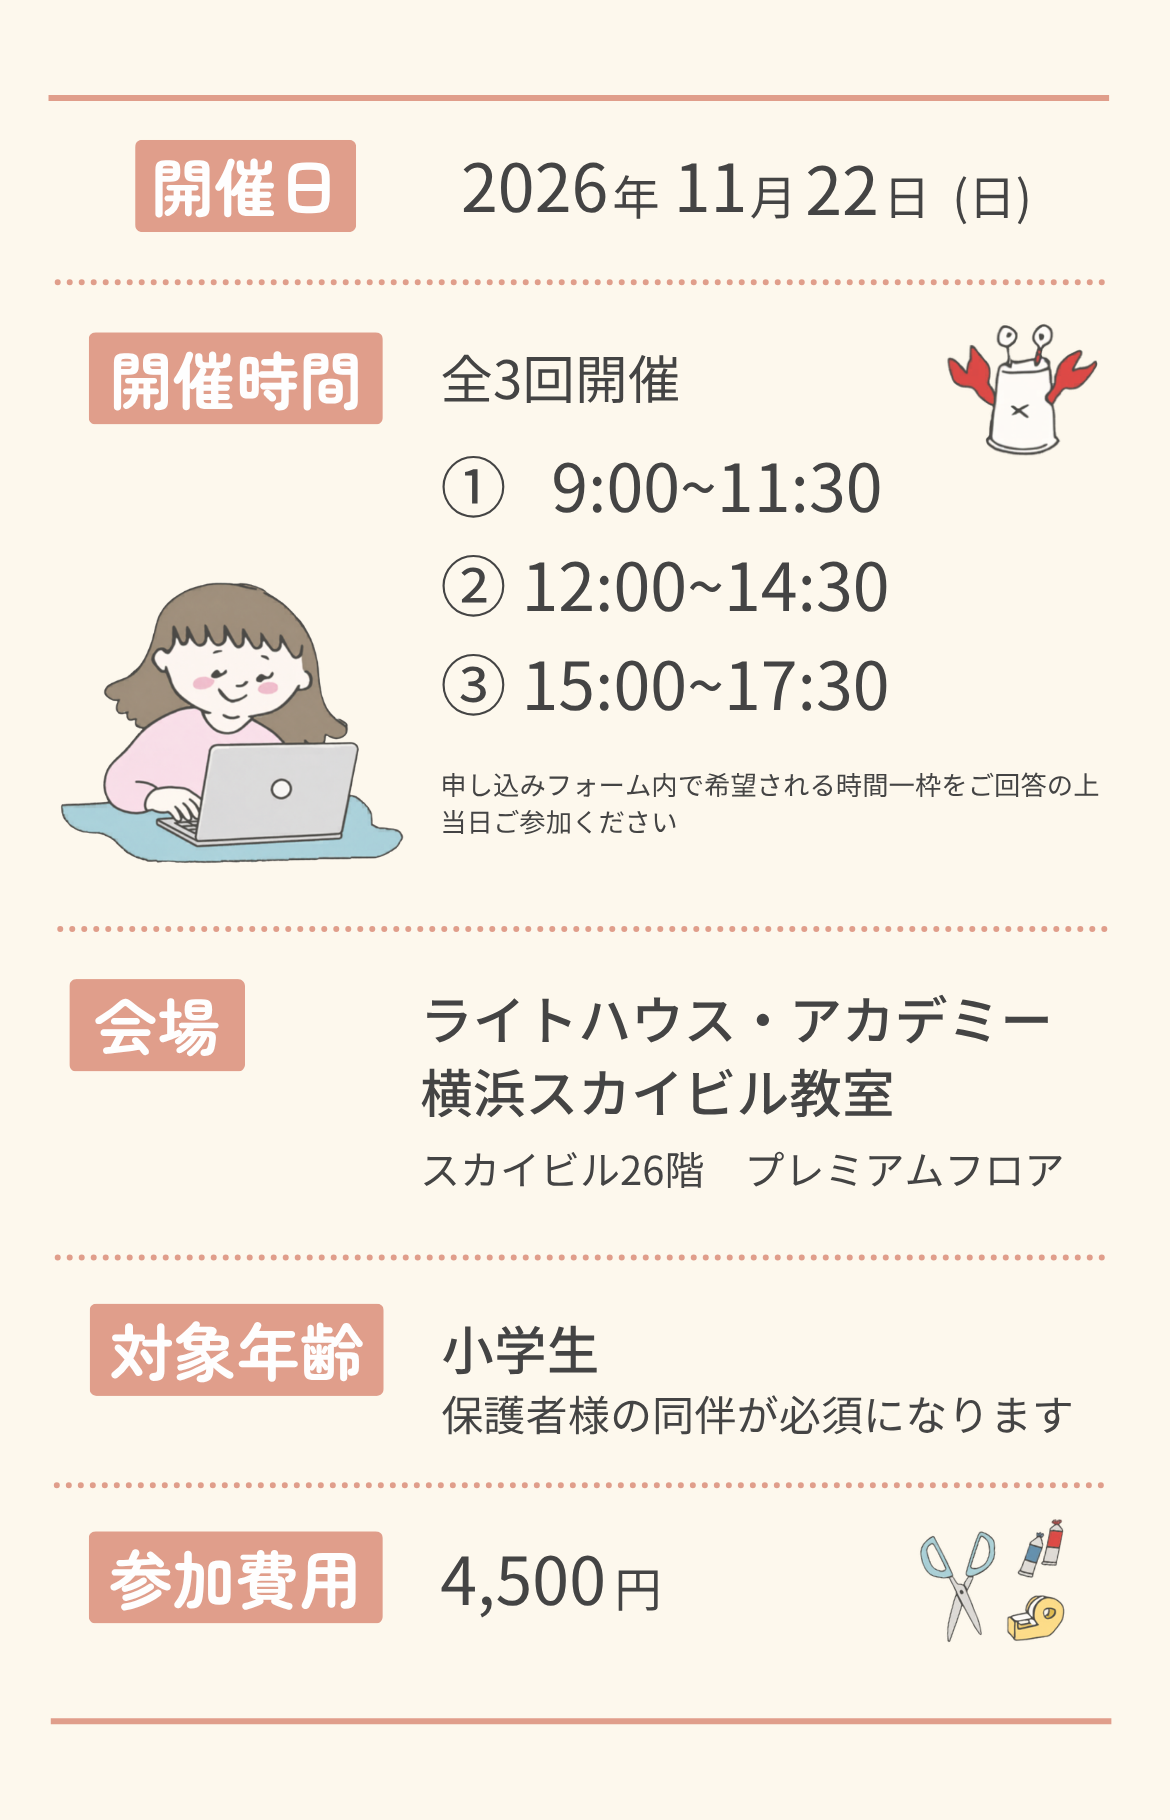
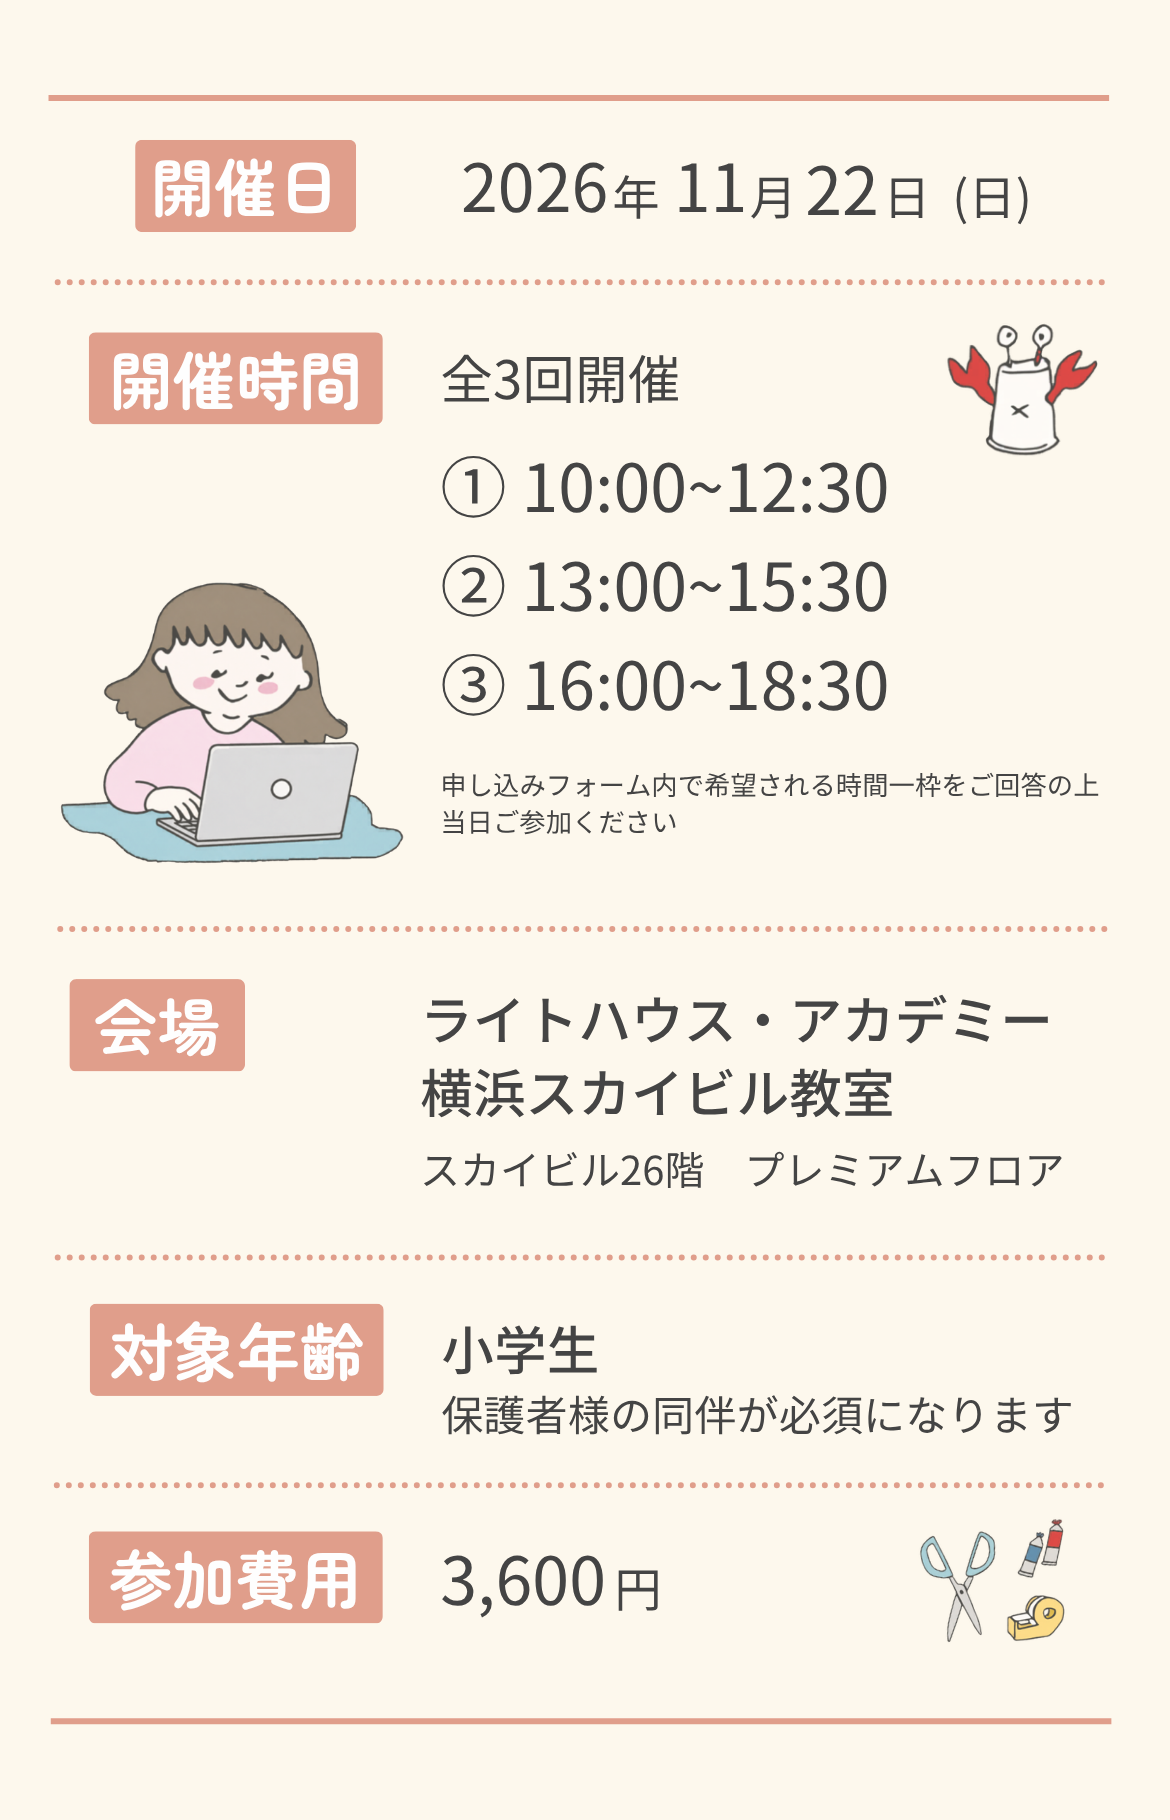
Align November workshop landing page with current booking

diff --git a/products/workshop/20261122A/index.html b/products/workshop/20261122A/index.html
@@ -22,14 +22,14 @@
   <link rel="stylesheet" href="styles.css" />
   <script defer src="script.js"></script>
 </head>
-<body data-form-url="https://www.street-academy.com/myclass/223088?conversion_name=direct_message&amp;tracking_code=703ed7c4bbd7df3f80b5a57226ae9ead">
+<body>
   <a class="skip-link" href="#main">本文へ移動</a>
   <div class="page-shell">
     <header class="site-header" aria-label="サイトヘッダー">
       <a class="brand" href="../../../" aria-label="ThouLab トップページへ">
         <img src="../../../assets/potera/logo0611.png" width="132" height="36" alt="ぽてら学舎" />
       </a>
-      <a class="header-cta" href="https://www.street-academy.com/myclass/223088?conversion_name=direct_message&amp;tracking_code=703ed7c4bbd7df3f80b5a57226ae9ead" data-apply-link data-cta-place="header">ストアカで申し込む</a>
+      <a class="header-cta" href="https://atclerk-staging-booking.vercel.app/w/w-229cc5f3a44d4f2aa077d2c0e682c137" data-apply-link data-cta-place="header">参加を申し込む</a>
     </header>
 
     <main id="main">
@@ -52,9 +52,11 @@
         </div>
         <div class="hero-details">
           <p class="event-date"><time datetime="2026-11-22">2026年11月22日（日）</time></p>
-          <p>9:00〜 / 12:00〜 / 15:00〜 の3枠<br>横浜スカイビル26階・プレミアムフロア</p>
+          <p>10:00〜12:30／13:00〜15:30／16:00〜18:30</p>
+          <p>横浜スカイビル26階・プレミアムフロア</p>
+          <p>お子さま1人 <strong>3,600円（税込）</strong></p>
         </div>
-        <a class="btn btn-primary wide" href="https://www.street-academy.com/myclass/223088?conversion_name=direct_message&amp;tracking_code=703ed7c4bbd7df3f80b5a57226ae9ead" data-apply-link data-cta-place="hero">時間を選んで申し込む <span aria-hidden="true">→</span></a>
+        <a class="btn btn-primary wide" href="https://atclerk-staging-booking.vercel.app/w/w-229cc5f3a44d4f2aa077d2c0e682c137" data-apply-link data-cta-place="hero">時間を選んで申し込む <span aria-hidden="true">→</span></a>
         <a class="text-link" href="#overview">参加費・開催概要を見る <span aria-hidden="true">↓</span></a>
       </section>
 
@@ -76,9 +78,12 @@
           <p class="section-kicker">Program</p>
           <h2 id="program-title">当日の流れ</h2>
         </div>
-        <figure class="portrait-wrap">
-          <img src="../../../assets/potera/1122A/S__7979041.jpg" width="858" height="1907" alt="当日の流れ（9時開始の回の例）。9:00 Q-BUでフィギュアをモデリング、10:00 ストラップを組み立てて色塗り・3Dプリント見学、11:00 印刷したフィギュアを取り付けて完成、11:30 終了。作品は持ち帰れます。全グループ同じ流れです。" loading="lazy" />
-        </figure>
+        <ol class="flow-list">
+          <li><span class="step-number" aria-hidden="true">1</span><div><h3>フィギュアをデザイン</h3><p>スマホアプリ「Q-BU」でブロックを組み合わせ、自分だけのフィギュアを作ります。</p></div></li>
+          <li><span class="step-number" aria-hidden="true">2</span><div><h3>ストラップの組み立て・色塗り</h3><p>好きな色でストラップをアレンジしながら、3Dプリンターがフィギュアを印刷する様子を見学します。</p></div></li>
+          <li><span class="step-number" aria-hidden="true">3</span><div><h3>フィギュアを取り付けて完成</h3><p>印刷したフィギュアを取り付けて、できあがった作品を持ち帰ります。</p></div></li>
+        </ol>
+        <p class="note">どの回も同じ内容で、所要時間は約2時間半です。</p>
       </section>
 
       <section class="section" aria-labelledby="teacher-title">
@@ -98,7 +103,7 @@
           <h2 id="overview-title">開催概要</h2>
         </div>
         <figure class="portrait-wrap">
-          <img src="../../../assets/potera/1122A/4.png" width="1170" height="1820" alt="開催概要。2026年11月22日（日）、9:00〜11:30・12:00〜14:30・15:00〜17:30の全3回から1枠を選択。会場はライトハウス・アカデミー横浜スカイビル教室、スカイビル26階プレミアムフロア。対象は小学生、保護者同伴必須。参加費4,500円。" loading="lazy" />
+          <img src="../../../assets/potera/1122A/4.png?v=7df88d75" width="1170" height="1820" alt="開催概要。2026年11月22日（日）、10:00〜12:30・13:00〜15:30・16:00〜18:30の全3回から1枠を選択。会場はライトハウス・アカデミー横浜スカイビル教室、スカイビル26階プレミアムフロア。対象は小学生、保護者同伴必須。参加費はお子さま1人3,600円（税込）。" loading="lazy" />
         </figure>
       </section>
 
@@ -119,10 +124,10 @@
         <div class="section-head">
           <p class="section-kicker">Entry</p>
           <h2 id="entry-title">参加方法</h2>
-          <p>事前予約制です。ストアカの講座ページから、ご希望の時間枠を選んでお申し込みください。</p>
+          <p>事前予約制です。予約ページでご希望の回を選び、お申し込みとお支払いをお済ませください。申込締切は各回の開始24時間前です。</p>
         </div>
-        <a class="btn btn-primary wide" href="https://www.street-academy.com/myclass/223088?conversion_name=direct_message&amp;tracking_code=703ed7c4bbd7df3f80b5a57226ae9ead" data-apply-link data-cta-place="entry">ストアカで詳細・空席を確認 <span aria-hidden="true">→</span></a>
-        <p class="note">空席状況・お支払い・キャンセル条件は、ストアカの予約画面をご確認ください。</p>
+        <a class="btn btn-primary wide" href="https://atclerk-staging-booking.vercel.app/w/w-229cc5f3a44d4f2aa077d2c0e682c137" data-apply-link data-cta-place="entry">空席を確認して申し込む <span aria-hidden="true">→</span></a>
+        <p class="note">各回の空席状況と参加条件は、予約ページでご確認いただけます。</p>
       </section>
 
       <section class="section" aria-labelledby="reviews-title">
@@ -147,9 +152,10 @@
         </div>
         <div class="faq-list">
           <details><summary>3D工作が初めてでも大丈夫？</summary><p>大丈夫です。ブロックを置く・削るといったQ-BUの基本操作から練習します。制作中もスタッフがサポートします。</p></details>
-          <details><summary>保護者の同伴は必要ですか？</summary><p>はい。小学生を対象にしたワークショップのため、保護者の同伴が必要です。お子さまと一緒にものづくりをお楽しみください。</p></details>
+          <details><summary>保護者の同伴は必要ですか？</summary><p>はい。対象は小学生（6〜12歳）で、保護者の同伴が必要です。お子さまと一緒にものづくりをお楽しみください。</p></details>
           <details><summary>何を持っていけばよいですか？</summary><p>スマートフォンをご持参ください。絵の具を使うため、汚れてもよい服装でお越しください。</p></details>
           <details><summary>作品は持ち帰れますか？</summary><p>はい。ご自身でデザインしたフィギュア1個を取り付けた、キーボードストラップ1個を持ち帰れます。フィギュアの大きさや形には3Dプリントのための制約があり、制作時にご案内します。</p></details>
+          <details><summary>予約を取り消せますか？</summary><p>ご予約の回の開始48時間前まで、予約確認画面から全員分をまとめて取り消せます。お支払い済みの参加費は全額返金手続きの対象です。期限後の取消や無断欠席は、原則として返金対象外です。</p></details>
         </div>
       </section>
 
@@ -157,7 +163,7 @@
         <p class="section-kicker">Let's create!</p>
         <h2 id="final-title">親子の「できた！」を、<br>持ち帰ろう。</h2>
         <p>11月22日（日）は、横浜で3D工作。<br>自分だけの形と色を、見つけに来てください。</p>
-        <a class="btn btn-primary wide" href="https://www.street-academy.com/myclass/223088?conversion_name=direct_message&amp;tracking_code=703ed7c4bbd7df3f80b5a57226ae9ead" data-apply-link data-cta-place="final">時間を選んで申し込む <span aria-hidden="true">→</span></a>
+        <a class="btn btn-primary wide" href="https://atclerk-staging-booking.vercel.app/w/w-229cc5f3a44d4f2aa077d2c0e682c137" data-apply-link data-cta-place="final">時間を選んで申し込む <span aria-hidden="true">→</span></a>
       </section>
     </main>
 
@@ -173,7 +179,7 @@
   </div>
   <aside class="sticky-apply" aria-label="参加申込">
     <div><span>11/22（日）横浜・小学生親子</span><strong>世界にひとつの3D工作</strong></div>
-    <a href="https://www.street-academy.com/myclass/223088?conversion_name=direct_message&amp;tracking_code=703ed7c4bbd7df3f80b5a57226ae9ead" data-apply-link data-cta-place="sticky">申し込む <span aria-hidden="true">→</span></a>
+    <a href="https://atclerk-staging-booking.vercel.app/w/w-229cc5f3a44d4f2aa077d2c0e682c137" data-apply-link data-cta-place="sticky">申し込む <span aria-hidden="true">→</span></a>
   </aside>
 </body>
 </html>

diff --git a/products/workshop/20261122A/script.js b/products/workshop/20261122A/script.js
@@ -1,11 +1,4 @@
 (() => {
-  const formUrl = document.body.dataset.formUrl;
-  if (formUrl) {
-    document.querySelectorAll("[data-apply-link]").forEach((link) => {
-      link.href = formUrl;
-    });
-  }
-
   const year = document.getElementById("year");
   if (year) year.textContent = String(new Date().getFullYear());
 
